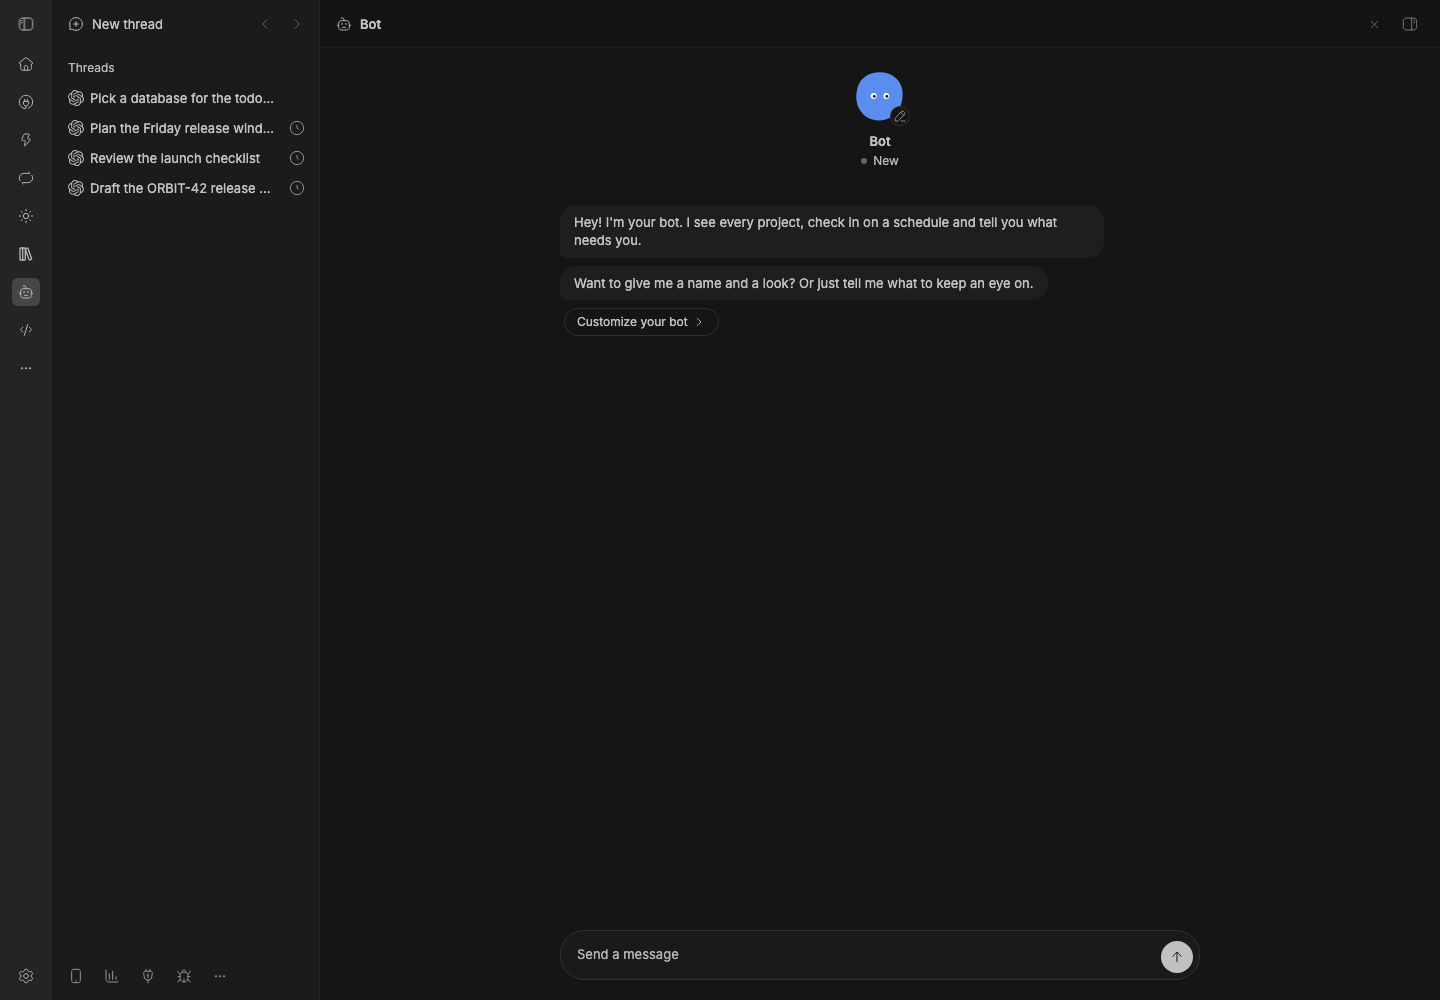
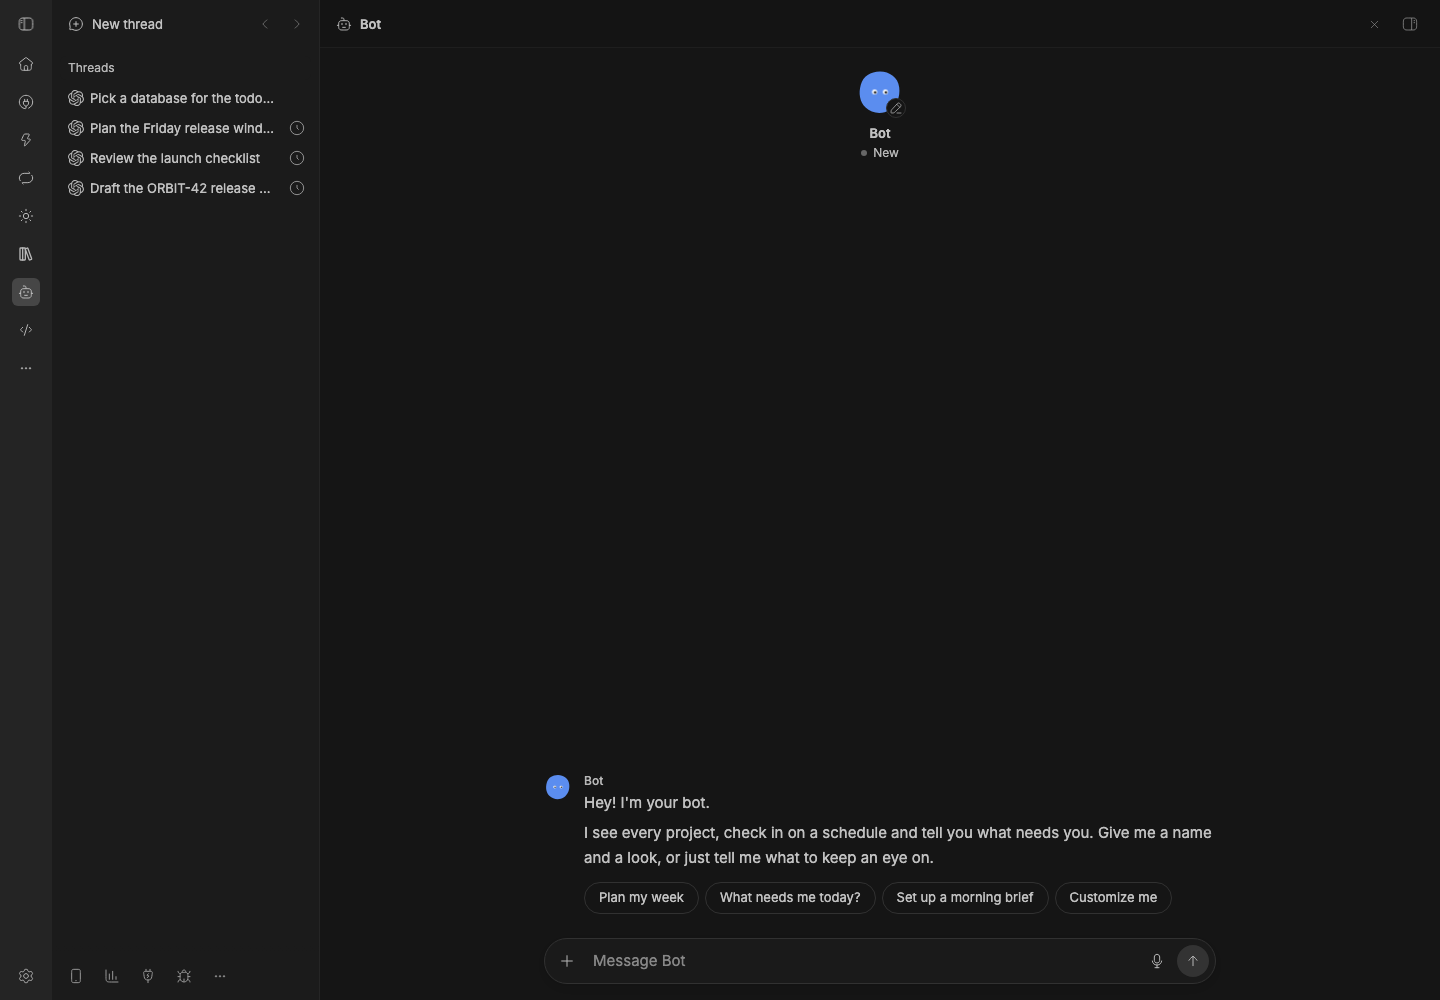
Studio: Bot chat hides stray ::next lines, cards show live status, working dot; staged Bot captures

diff --git a/packages/bb-studio/src/ui/bot/BotChat.tsx b/packages/bb-studio/src/ui/bot/BotChat.tsx
@@ -273,7 +273,7 @@ const Entry = memo(function Entry({ entry, bot, childStatus, previous, isLast, o
     case "work":
       return <WorkLine entry={entry} gap={gap} />;
     case "child":
-      return <ChildCard entry={entry} live={entry.threadId && entry.verb === "started" ? childStatus.get(entry.threadId) : undefined} gap={gap} />;
+      return <ChildCard entry={entry} live={entry.threadId ? childStatus.get(entry.threadId) : undefined} gap={gap} />;
     case "notice":
       return <p className={`${gap} pl-10 text-xs text-destructive`} role="status">{entry.text}</p>;
   }
@@ -331,7 +331,7 @@ function WorkLine({ entry, gap }: { entry: Extract<ChatEntry, { kind: "work" }>;
 }
 
 const CHILD_LABEL: Record<ChildStatus, string> = { running: "Running", finished: "Finished", failed: "Failed", stopped: "Stopped", "needs-you": "Needs you", waiting: "Waiting" };
-const CHILD_DOT: Record<ChildStatus, string> = { running: "bg-info animate-pulse motion-reduce:animate-none", finished: "bg-success", failed: "bg-destructive", stopped: "bg-muted-foreground/50", "needs-you": "bg-warning", waiting: "bg-muted-foreground/50" };
+const CHILD_DOT: Record<ChildStatus, string> = { running: "bg-success animate-pulse motion-reduce:animate-none", finished: "bg-success", failed: "bg-destructive", stopped: "bg-muted-foreground/50", "needs-you": "bg-warning", waiting: "bg-muted-foreground/50" };
 
 /** A thread the Bot started or heard back from, as one compact card linking to it. */
 function ChildCard({ entry, live, gap }: { entry: Extract<ChatEntry, { kind: "child" }>; live?: ChildStatus; gap: string }) {

diff --git a/packages/bb-studio/src/ui/bot/BotHome.tsx b/packages/bb-studio/src/ui/bot/BotHome.tsx
@@ -213,7 +213,7 @@ function BotPage({ view, refresh }: { view: BotView; refresh(): void }) {
     <div className="studio-root relative flex h-full min-h-0 flex-col bg-background text-foreground">
       <style>{BOT_STYLES}</style>
       <header className="relative shrink-0 px-24 pt-4 pb-2">
-        <Identity avatar={bot.avatar} profile={profile} status={status} dot={chatWorking ? "bg-info" : STATE_DOT[bot.state]} working={chatWorking} onEdit={() => setSheet("profile")} />
+        <Identity avatar={bot.avatar} profile={profile} status={status} dot={chatWorking ? "bg-success animate-pulse motion-reduce:animate-none" : STATE_DOT[bot.state]} working={chatWorking} onEdit={() => setSheet("profile")} />
         <div className="absolute top-3 right-3 flex items-center gap-0.5">
           <DropdownMenu>
             <DropdownMenuTrigger asChild>

diff --git a/packages/bb-studio/src/ui/bot/chat-model.ts b/packages/bb-studio/src/ui/bot/chat-model.ts
@@ -72,7 +72,8 @@ export function mergeChain(pages: readonly ChainPage[]): Row[] {
 /** Splits a trailing `::next{…}` line off a reply. */
 export function splitNext(text: string): { body: string; next: NextItems | null } {
   const match = /(?:^|\n)[ \t]*::next\{([^}\n]*)\}[ \t]*\s*$/.exec(text);
-  if (!match) return { body: text, next: null };
+  // A malformed or mid-reply Next line is plumbing too: it never shows as text.
+  if (!match) return { body: text.replace(/^[ \t]*::next\{[^\n]*(?:\n|$)/gm, "").trimEnd(), next: null };
   const attributes: Record<string, string> = {};
   for (const [, key, value] of match[1]!.matchAll(/([a-z]+)="([^"]*)"/g)) attributes[key!] = value!;
   const next = parseNextItems(attributes);

diff --git a/packages/bb-studio/src/ui/bot/chat-model.test.ts b/packages/bb-studio/src/ui/bot/chat-model.test.ts
@@ -81,6 +81,10 @@ describe("splitNext", () => {
     expect(next?.do.map((item) => item.label)).toEqual(["Write it up"]);
   });
 
+  it("drops a malformed Next line from the text", () => {
+    expect(splitNext('Two points.\n::next{reply="👍 Sounds\nMore')).toEqual({ body: "Two points.\nMore", next: null });
+  });
+
   it("leaves other text alone", () => {
     expect(splitNext("Just text")).toEqual({ body: "Just text", next: null });
   });
